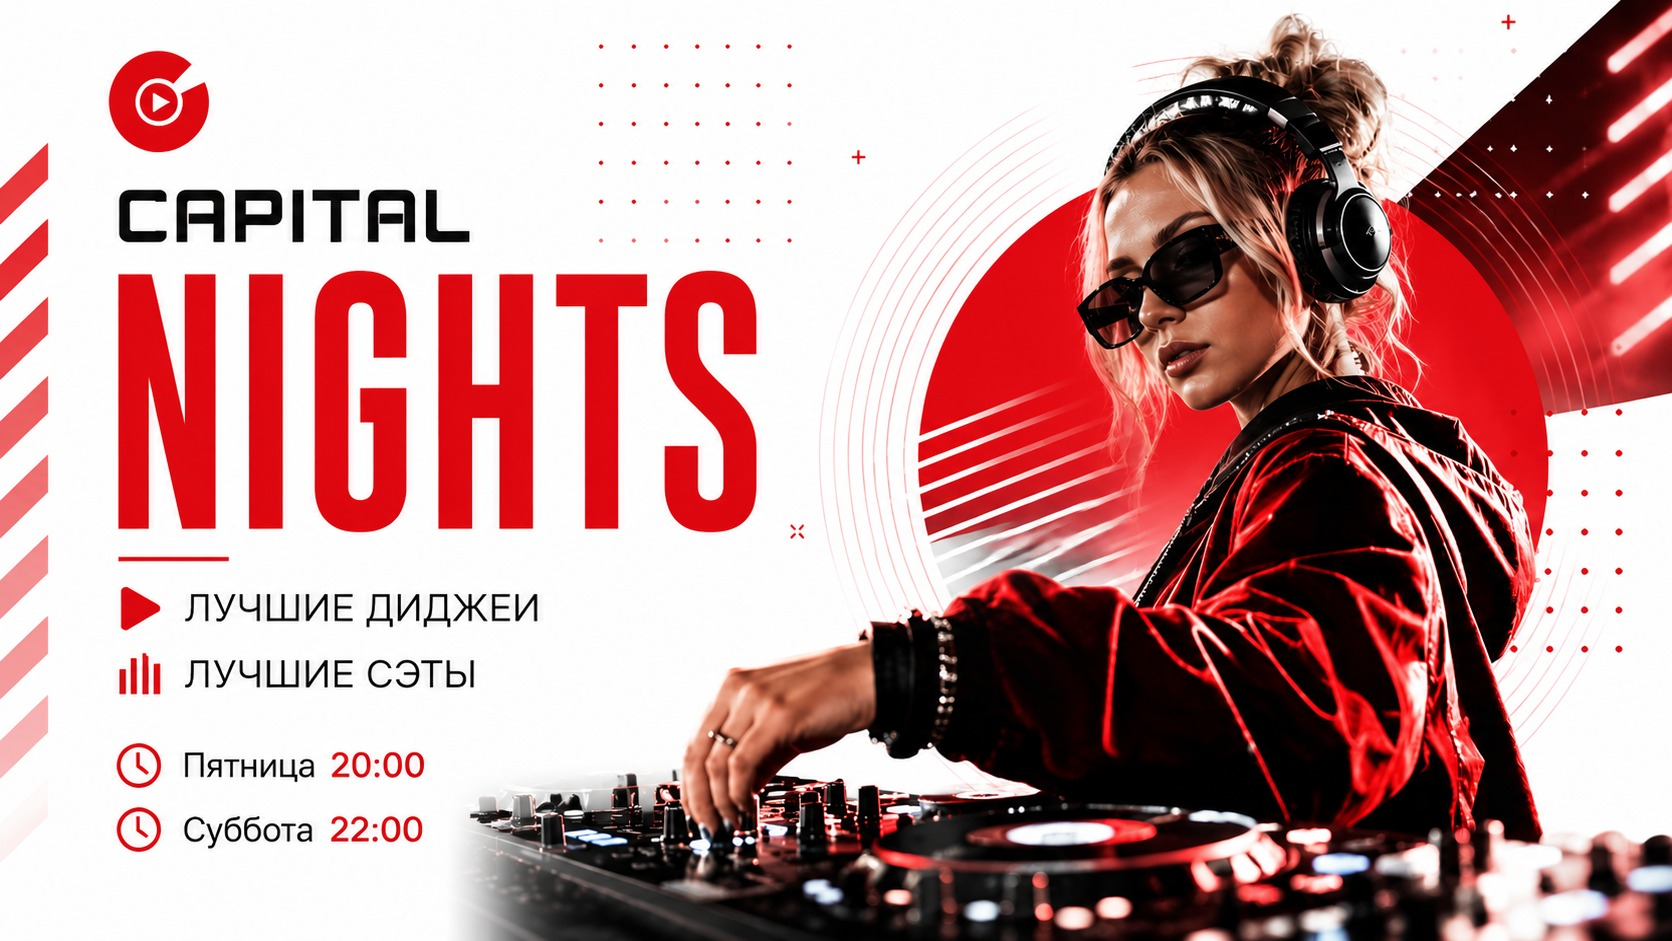
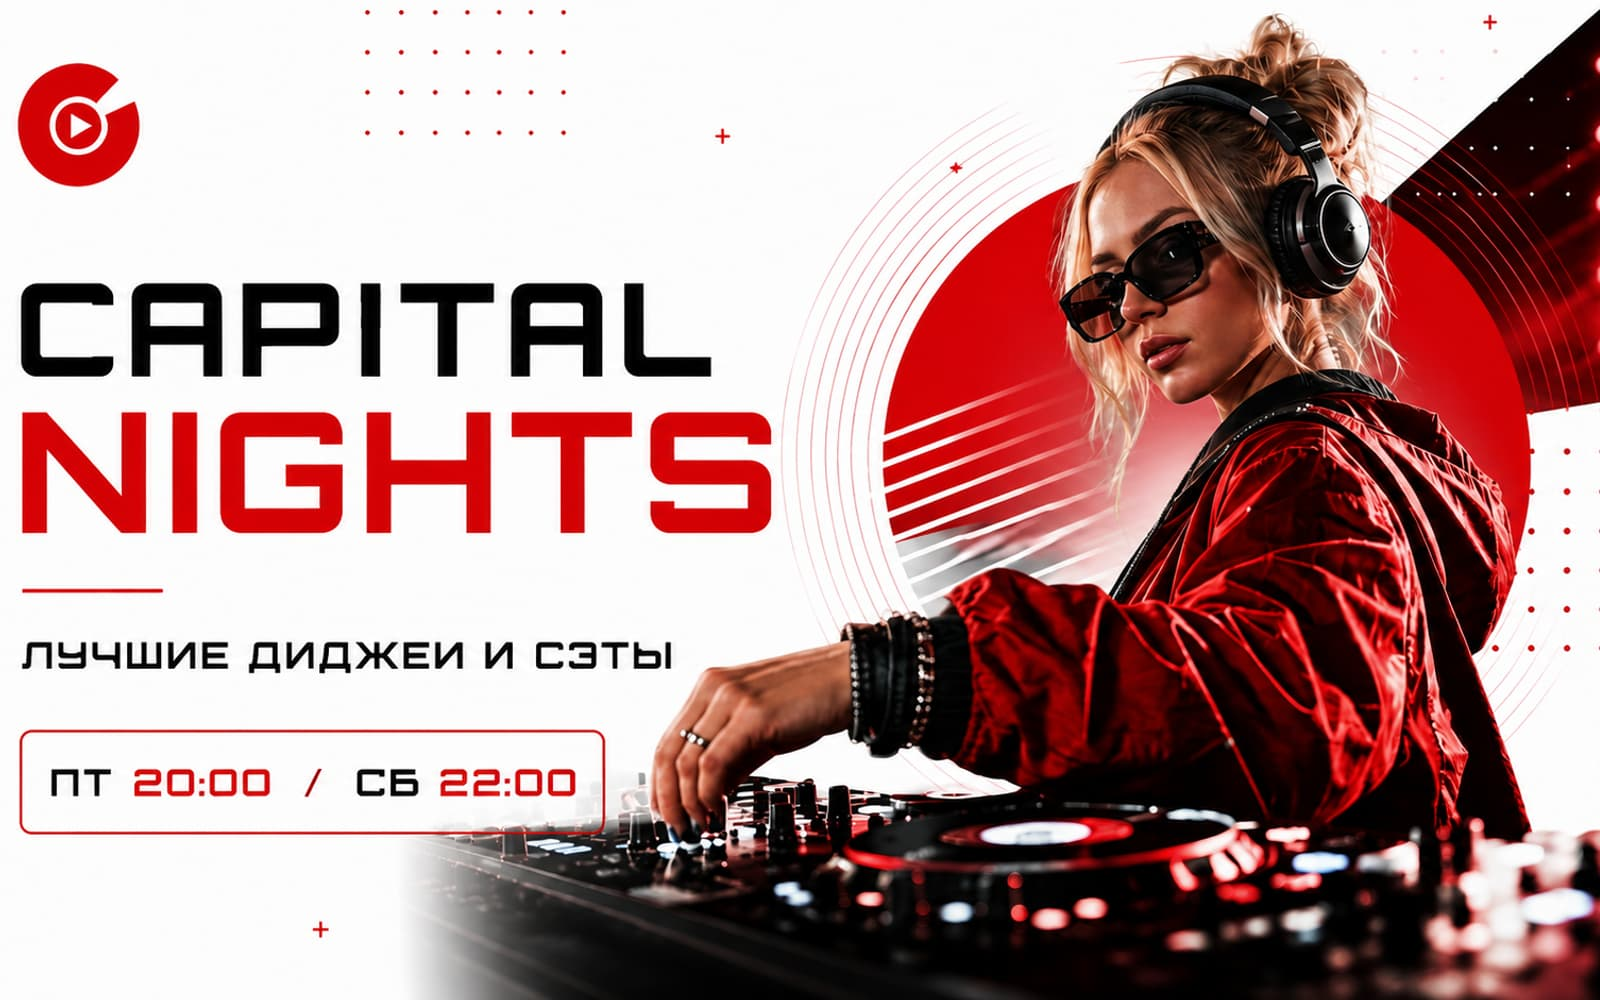
Replace all carousel creative with the redesigned series (7 slides)
New brand-consistent banners (Orbitron headline + JetBrains Mono
support copy, red/black/cream) replace the old mixed-style set.
broadcast.jpg (no replacement provided) is dropped entirely, so the
carousel goes from 8 slides to 7.

Processing applied to every source file:
- afisha/bravo/fitness/nights (native 16:9): cropped to the frame's
  16:10 ratio, biased toward the decorative left-edge stripe pattern
  and away from the photo content on the right
- renata/skidki (already ~16:10): straight resize, negligible crop
- warm: corner sponsor/language badges bleed flush to the left/right
  AND top edge in the source, so side-cropping or a mirror-extend both
  clipped or duplicated them; canvas is extended top/bottom instead
  with the site's --night color, which reads as the dark carousel
  frame rather than a seam
- all resized to 1600x1000, progressive JPEG q74-76 (mozjpeg): total
  carousel weight ~2.5MB -> ~1MB

hero-carousel keyframes/delays recalculated for 7 slides x 8s = 56s
cycle (was 8 x 8s = 64s); alt text list updated to match, warm's alt
corrected to the new schedule time (19:00, was 16:00).

diff --git a/index.html b/index.html
@@ -428,12 +428,14 @@
     transform:rotate(var(--hero-tilt));
     will-change:transform;
   }
+  /* 7 slides x 8s each = 56s cycle (was 8 x 8s = 64s) — keyframe percents
+     and delays are derived from slide count, recompute both if it changes */
   .hero-visual img{
     position:absolute;inset:0;
     width:100%;height:100%;
     object-fit:cover;
     opacity:0;
-    animation:hero-carousel 64s ease-in-out infinite;
+    animation:hero-carousel 56s ease-in-out infinite;
   }
   .hero-visual img:nth-child(1){animation-delay:0s;}
   .hero-visual img:nth-child(2){animation-delay:-8s;}
@@ -442,12 +444,11 @@
   .hero-visual img:nth-child(5){animation-delay:-32s;}
   .hero-visual img:nth-child(6){animation-delay:-40s;}
   .hero-visual img:nth-child(7){animation-delay:-48s;}
-  .hero-visual img:nth-child(8){animation-delay:-56s;}
   @keyframes hero-carousel{
     0%{opacity:0;}
-    1%{opacity:1;}
-    11.5%{opacity:1;}
-    12.5%{opacity:0;}
+    1.14%{opacity:1;}
+    13.14%{opacity:1;}
+    14.29%{opacity:0;}
     100%{opacity:0;}
   }
   @media (prefers-reduced-motion:reduce){
@@ -1009,9 +1010,8 @@
       <img src="assets/carousel/afisha.jpg" alt="Сити / Сити Уикенд / Сити.Едим — гид по жизни в Москве от Евгении Смурыгиной, каждый день на CAPITAL">
       <img src="assets/carousel/bravo.jpg" alt="Министерство здравого смысла Марии Браво — развенчиваем мифы, тревоги и манипуляции, каждый день на CAPITAL">
       <img src="assets/carousel/skidki.jpg" alt="Скидки недели с Юлей Майской — каждый день на CAPITAL">
-      <img src="assets/carousel/warm.jpg" alt="WARM Global Dance Radio Chart на CAPITAL — пятница 16:00, суббота 21:00">
+      <img src="assets/carousel/warm.jpg" alt="WARM Global Dance Radio Chart на CAPITAL — пятница 19:00, суббота 21:00">
       <img src="assets/carousel/renata.jpg" alt="Это надо видеть с Ренатой Пиотровски — о главных премьерах, новых фильмах и сериалах, каждый день на CAPITAL">
-      <img src="assets/carousel/broadcast.jpg" alt="Хочешь транслировать CAPITAL в своём городе? Пиши на music@capitalfm.moscow">
       <img src="assets/carousel/fitness.jpg" alt="Фитнес Утро — включи CAPITAL на пробежке, 7–11 утра">
       <img src="assets/carousel/nights.jpg" alt="CAPITAL Nights — лучшие диджеи и сэты, пятница 20:00, суббота 22:00">
       </div>
